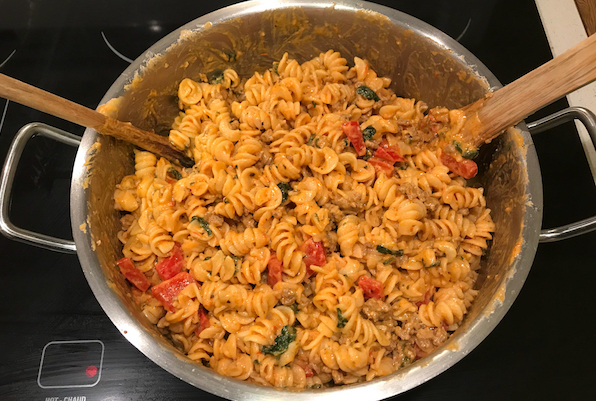
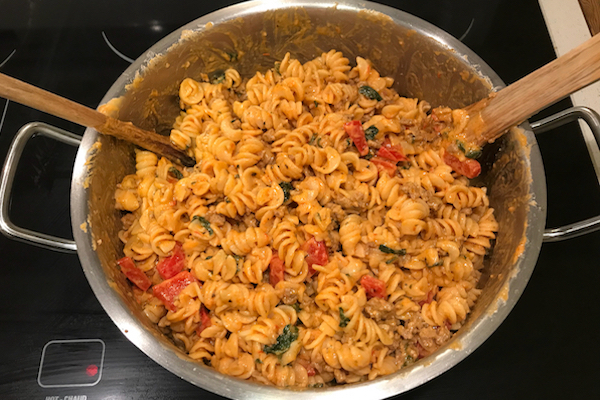
standardizing all images to 600x400px and temporarily removing carousel from food grid due to bugs

Changed region(s): [[0.906, 0.57, 0.9664, 0.6], [0.6342, 0.99, 0.6644, 1.0], [0.1208, 0.99, 0.151, 1.0]]

diff --git a/src/views/Search/FoodGrid.js b/src/views/Search/FoodGrid.js
@@ -2,27 +2,99 @@ import React, { Component } from 'react'
 import Carousel from 'nuka-carousel'
 import { Grid, Item, Image, Rating, Icon, Divider } from 'semantic-ui-react'
 import './FoodGrid.css'
-import CarouselDecorators from './ImageDecorator'
 import PriceCalc from '../../services/PriceCalc'
 import Util from '../../services/Util'
 import Url from '../../services/Url'
 
 export default class FoodGrid extends Component {
 
-    handleMouseLeave(a, b, id) {
+    handleMouseLeave = (a, b, id) => {
         if (this.props.onFoodItemLeave) {
             this.props.onFoodItemLeave(id);
         }
     }
 
-    handleMouseEnter(a, b, id) {
+    handleMouseEnter = (a, b, id) => {
         if (this.props.onFoodItemEnter) {
             this.props.onFoodItemEnter(id);
         }
     }
 
+    render() {
+        const { foods } = this.props;
+
+        if (!foods) {
+            return null;
+        }
+
+        if (foods.length <= 0) {
+            return (
+                <div>
+                    <div className='foodgrid-no-results'>
+                        <div className='foodgrid-no-results-header'><Icon color='purple' name='map signs' />Try adjusting your search. Here's what you can do:</div>
+                        <ul>
+                            <li>Change your filters or dates</li>
+                            <li>Zoom out on the map</li>
+                            <li>Search a specific neighbourhood or address</li>
+                        </ul>
+                    </div>
+                    <Divider />
+                </div>
+            );
+        }
+
+        const cards = foods.map((food) => {
+            return (
+                <Grid.Column style={{ padding: '0px' }} mobile={16} tablet={16} computer={8} key={food.food_id}>
+                    <div className='foodgrid-card'>
+                        <a
+                            target='_blank'
+                            href={Url.foodDetail(food.food_id)}
+                            onMouseEnter={(a, b) => this.handleMouseEnter(a, b, food.food_id)}
+                            onMouseLeave={(a, b) => this.handleMouseLeave(a, b, food.food_id)}>
+                            <Item style={{ marginBottom: '1px' }}>
+                                <Item.Content>
+                                    <div className='foodgrid-imagebox'>
+                                        <FoodImage food={food} />
+                                    </div>
+
+                                    <Item.Header>
+                                        <div className='foodgrid-card-header'>
+                                            ${PriceCalc.getPrice(food.price)} · {food.title}</div>
+                                        <div style={{ clear: 'both' }}></div>
+                                    </Item.Header>
+
+                                    <Item.Meta>
+                                        <div style={{ display: 'flex' }}>
+                                            <FoodPrepLabel food={food} />
+                                            <span className='foodgrid-label'> {food.states} <span style={{ fontWeight: '900' }}>·</span>
+                                                <Rating disabled={true} maxRating={5} rating={food.rating} size='mini'
+                                                    style={{ marginTop: '5px', marginLeft: '2px' }} />
+                                                {food.ratingCount}
+                                            </span>
+                                        </div>
+                                    </Item.Meta>
+
+                                </Item.Content>
+                            </Item>
+                        </a>
+                    </div>
+                </Grid.Column>
+            )
+        });
+        return (
+            <Grid stackable className='foodgrid' width={16}>
+                {cards}
+            </Grid>
+        );
+
+    }
+}
+
+const FoodImage = ({ food }) => {
+
     // goToSlide, nextSlide and previousSlide functions in addition to slideCount and currentSlide
-    carouselLeftButton = ({ previousSlide }) => {
+    const carouselLeftButton = ({ previousSlide }) => {
 
         const getButtonStyles = (disabled) => {
             return {
@@ -53,7 +125,7 @@ export default class FoodGrid extends Component {
         );
     }
 
-    carouselRightButton = ({ nextSlide }) => {
+    const carouselRightButton = ({ nextSlide }) => {
         const getButtonStyles = (disabled) => {
             return {
                 border: 0,
@@ -80,108 +152,39 @@ export default class FoodGrid extends Component {
         );
     }
 
-    getFoodImageComponent(food) {
-        let imageElement;
-        if (food.imageUrls && food.imageUrls.length > 1) {
-            const imageUrls = food.imageUrls.map((current, index) => (
-                <Image key={index} className='foodgrid-image' src={current} onLoad={() => Util.triggerEvent(window, 'resize')} />
-            ));
-            imageElement = (
-                <Carousel dragging={true} cellSpacing={15} edgeEasing="linear" wrapAround={true}
-                    renderBottomCenterControls={() => { }}
-                    renderCenterLeftControls={this.carouselLeftButton}
-                    renderCenterRightControls={this.carouselRightButton}
-                >
-                    {imageUrls}
-                </Carousel>
-            );
-        }
-        else {
-            imageElement = <Image className='foodgrid-image' src={food.imageUrls[0]} />
-        }
-        return imageElement;
-    }
+    const emptyFunc = () => { };
 
-    getFoodPrepLabelComponent(food) {
-        let foodPrepClassName = 'foodgrid-prep-' + food.states[0];
-        let foodPrepIcon = Util.getFoodPrepTypeIcon(food);
-
-        let labelElement = (
-            <Icon circular name={foodPrepIcon} className={foodPrepClassName} size='small' />
+    let imageElement;
+    // todo: re-add support for carousel in food grid
+    const showCarousel = 1 > 2;
+    if (showCarousel && food.imageUrls && food.imageUrls.length > 1) {
+        const images = food.imageUrls.map((current, index) => (
+            <Image key={index} className='foodgrid-image' src={current} onLoad={() => Util.triggerEvent(window, 'resize')} />
+            // <div key={index} className='foodgrid-image-bg' onLoad={() => Util.triggerEvent(window, 'resize')} style={{backgroundImage: 'url("' + current + '")'}}></div>
+        ));
+        imageElement = (
+            <Carousel dragging={true} cellSpacing={15} edgeEasing="linear" wrapAround={true}
+                renderBottomCenterControls={emptyFunc}
+                renderCenterLeftControls={carouselLeftButton}
+                renderCenterRightControls={carouselRightButton}
+            >
+                {images}
+            </Carousel>
         );
-        return labelElement;
     }
-
-    render() {
-        const { foods } = this.props;
-
-        if (!foods) {
-            return null;
-        }
-
-        if (foods.length <= 0) {
-            return (
-                <div>
-                    <div className='foodgrid-no-results'>
-                        <div className='foodgrid-no-results-header'><Icon color='purple' name='map signs' />Try adjusting your search. Here's what you can do:</div>
-                        <ul>
-                            <li>Change your filters or dates</li>
-                            <li> Zoom out on the map </li>
-                            <li>Search a specific neighbourhood or address</li>
-                        </ul>
-                    </div>
-                    <Divider />
-                </div>
-            );
-        }
-
-        const cards = foods.map((food) => {
-            let foodImageComponent = this.getFoodImageComponent(food);
-            let foodPrepLabelComponent = this.getFoodPrepLabelComponent(food);
-
-            return (
-                <Grid.Column style={{ padding: '0px' }} mobile={16} tablet={16} computer={8} key={food.food_id}>
-                    <div className='foodgrid-card'>
-                        <a
-                            target='_blank'
-                            href={Url.foodDetail(food.food_id)}
-                            onMouseEnter={(a, b) => this.handleMouseEnter(a, b, food.food_id)}
-                            onMouseLeave={(a, b) => this.handleMouseLeave(a, b, food.food_id)}>
-                            <Item style={{ marginBottom: '1px' }}>
-                                <Item.Content>
-                                    <div className='foodgrid-imagebox'>
-                                        {foodImageComponent}
-                                    </div>
-
-                                    <Item.Header>
-                                        <div className='foodgrid-card-header'>
-                                            ${PriceCalc.getPrice(food.price)} · {food.title}</div>
-                                        <div style={{ clear: 'both' }}></div>
-                                    </Item.Header>
-
-                                    <Item.Meta>
-                                        <div style={{ display: 'flex' }}>
-                                            {foodPrepLabelComponent}
-                                            <span className='foodgrid-label'> {food.states} <span style={{ fontWeight: '900' }}>·</span>
-                                                <Rating disabled={true} maxRating={5} rating={food.rating} size='mini'
-                                                    style={{ marginTop: '5px', marginLeft: '2px' }} />
-                                                {food.ratingCount}
-                                            </span>
-                                        </div>
-                                    </Item.Meta>
-
-                                </Item.Content>
-                            </Item>
-                        </a>
-                    </div>
-                </Grid.Column>
-            )
-        });
-        return (
-            <Grid stackable className='foodgrid' width={16}>
-                {cards}
-            </Grid>
-        );
-
+    else {
+        imageElement = (<Image className='foodgrid-image' src={food.imageUrls[0]} />);
+        // imageElement = <div className='foodgrid-image-bg' style={{backgroundImage: 'url("' + food.imageUrls[0] + '")'}}></div>
     }
+    return imageElement;
+}
+
+const FoodPrepLabel = ({ food }) => {
+    let foodPrepClassName = 'foodgrid-prep-' + food.states[0];
+    let foodPrepIcon = Util.getFoodPrepTypeIcon(food);
+
+    let labelElement = (
+        <Icon circular name={foodPrepIcon} className={foodPrepClassName} size='small' />
+    );
+    return labelElement;
 }

diff --git a/src/views/FoodDetail/OverviewSection.js b/src/views/FoodDetail/OverviewSection.js
@@ -7,7 +7,7 @@ import FoodOptions from './FoodOptions'
 import FoodPrepSafetyMessage from './FoodPrepSafetyMessage'
 import './OverviewSection.css'
 import RegionUtil from '../../components/Map/RegionUtil'
-import { FoodFeatureLabels } from '../../Enums'
+import { FoodFeatureLabels, FoodAllergyLabels } from '../../Enums'
 
 const OverviewSection = ({ food, cook }) => {
     return (
@@ -75,7 +75,8 @@ const OverviewSection = ({ food, cook }) => {
                 <div style={{ marginLeft: '15px', marginTop: '15px' }}>
                     <ul>
                         {food.allergies.map((allergy, index) => {
-                            return (<li key={index}>{allergy}</li>);
+                            const allergyText = FoodAllergyLabels[allergy] ? FoodAllergyLabels[allergy] : allergy;
+                            return (<li key={index}>{allergyText}</li>);
                         })}
                     </ul>
                 </div>

diff --git a/src/views/Search/Mobile/MobileSearch.js b/src/views/Search/Mobile/MobileSearch.js
@@ -330,11 +330,6 @@ class MobileSearch extends Component {
                 </div>
 
                 <Drawer visible={showFilter} onTransitionEnd={this.handleDrawerTransitionEnd}>
-                    {/*
-                        Drawer gets rendered outside of the react root and thus
-                        it doesn't inherit the redux store.  We need to inject it
-                        into the SearchFilter manually
-                    */}
                     <SearchFilter visible={showFilter}
                         pickup={pickup}
                         date={date}

diff --git a/src/Enums.js b/src/Enums.js
@@ -52,5 +52,18 @@ export const FoodFeatureLabels = {
     gmo_free: "GMO-free",
     free_range_poultry: "Free range poultry",
     free_range_eggs: "Free range eggs",
-    pasture_raised_chicken: "Pasture raised chicken"
+    pasture_raised_chicken: "Pasture raised chicken",
+    vegetarian: "Vegetarian"
+};
+
+export const FoodAllergyLabels = {
+    eggs: "Eggs",
+    tree_nuts: "Tree Nuts",
+    wheat: "Wheat",
+    sesame_oil: "Sesame Oil",
+    milk: "Milk",
+    mustard: "Mustard",
+    nuts: "Nuts",
+    gluten: "Gluten",
+    sulphites: "Sulphites",
 };

diff --git a/src/views/Search/FoodGrid.css b/src/views/Search/FoodGrid.css
@@ -105,3 +105,19 @@
 .foodgrid-card .slider-control-centerleft {
     height: 100%;
 }
+
+.foodgrid-card:hover .foodgrid-image-hidedecorator {
+    display: inherit;
+}
+
+.foodgrid-card .foodgrid-image-hidedecorator {
+    display: none;
+}
+
+.foodgrid-image-bg {
+    width:  100%;
+    height: 300px;
+    background-position: 50% 50%;
+    background-repeat: no-repeat;
+    background-size: cover;
+}
